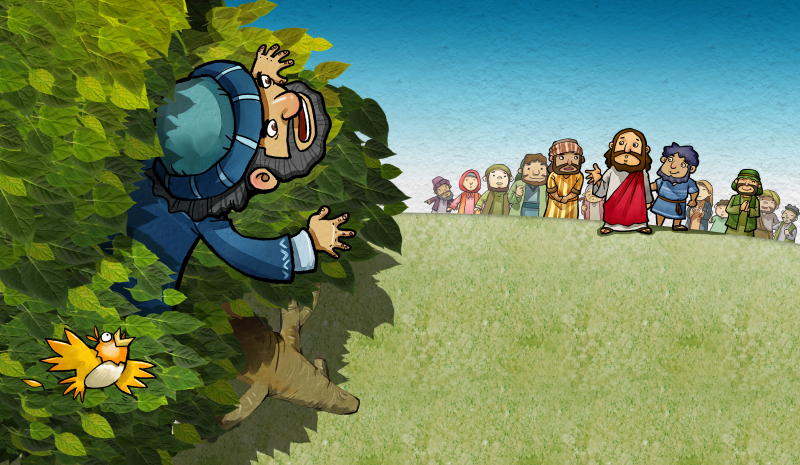
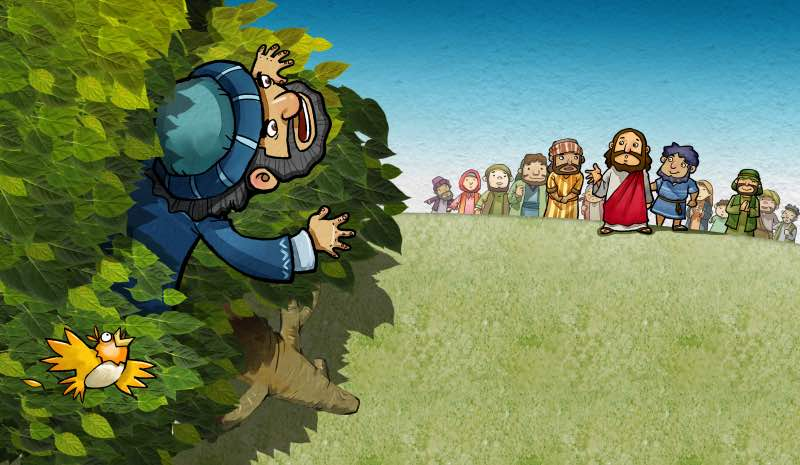
저해상도 이미지 추가

diff --git a/index.html b/index.html
@@ -39,7 +39,13 @@ layout: landing
 						<section class="spotlight">
 							<div class="image"><img src="images/timetable.jpg" alt="" /></div>
 							<div class="content">
-								<h2>여름 캠프 시간표가 배달됐어요.</h2><br />
+								<h3>여름 캠프 시간표가 배달됐어요.</h3><br />
+								<p>7/28(목) 아침 9시 캠프 장소로 출발!<br>
+									7/28(목) 저녁 9시 #저녁집회 - 예수님 만나고 싶어요 1<br>
+									7/29(금) 아침 9시 우리랜드 개장!<br>
+									7/29(금) 저녁 9시 #저녁집회 - 예수님 만나고 싶어요 2<br>
+									7/30(토) 점심 12시 도착 예정<br>
+								</p>
 							</div>
 						</section>
 					</section>
@@ -48,7 +54,7 @@ layout: landing
 						<section class="spotlight">
 							<div class="image"><img src="images/pic01.jpg" alt="" /></div>
 							<div class="content">
-								<h2>예수님 만나고 싶어요.</h2><br />
+								<h3>예수님 만나고 싶어요.</h3><br />
 								<p>"하나님이 세상을 이처럼 사랑하사 독생자를 주셨으니 이는 그를 믿는 자마다 멸망하지 않고 영생을 얻게 하려 하심이라."<br />
 								요한복음 3장 16절</p>
 							</div>
@@ -59,7 +65,7 @@ layout: landing
 						<section class="spotlight">
 							<div class="image"><iframe src="https://player.vimeo.com/video/172521207" width="100%" height="300" frameborder="0"></iframe></div>
 							<div class="content">
-								<h2>분당우리교회 2016년 여름캠프</h2><br />
+								<h3>분당우리교회 2016년 여름캠프</h3><br />
 								<p>|교역자 편|</p>
 							</div>
 						</section>
@@ -69,7 +75,7 @@ layout: landing
 					<section id="four" class="wrapper style3 special">
 						<div class="inner">
 							<header class="major">
-								<h2>여름 캠프를 기도로 준비해요</h2>
+								<h3>여름 캠프를 기도로 준비해요</h3>
 								<div class="align-center label-list">
 									<ul style="list-style-type:none">
 										<li>니고데모처럼 예수님을 인격적으로 만나고, 구원의 확신을 갖는 제가 되게 해주세요.</li>
